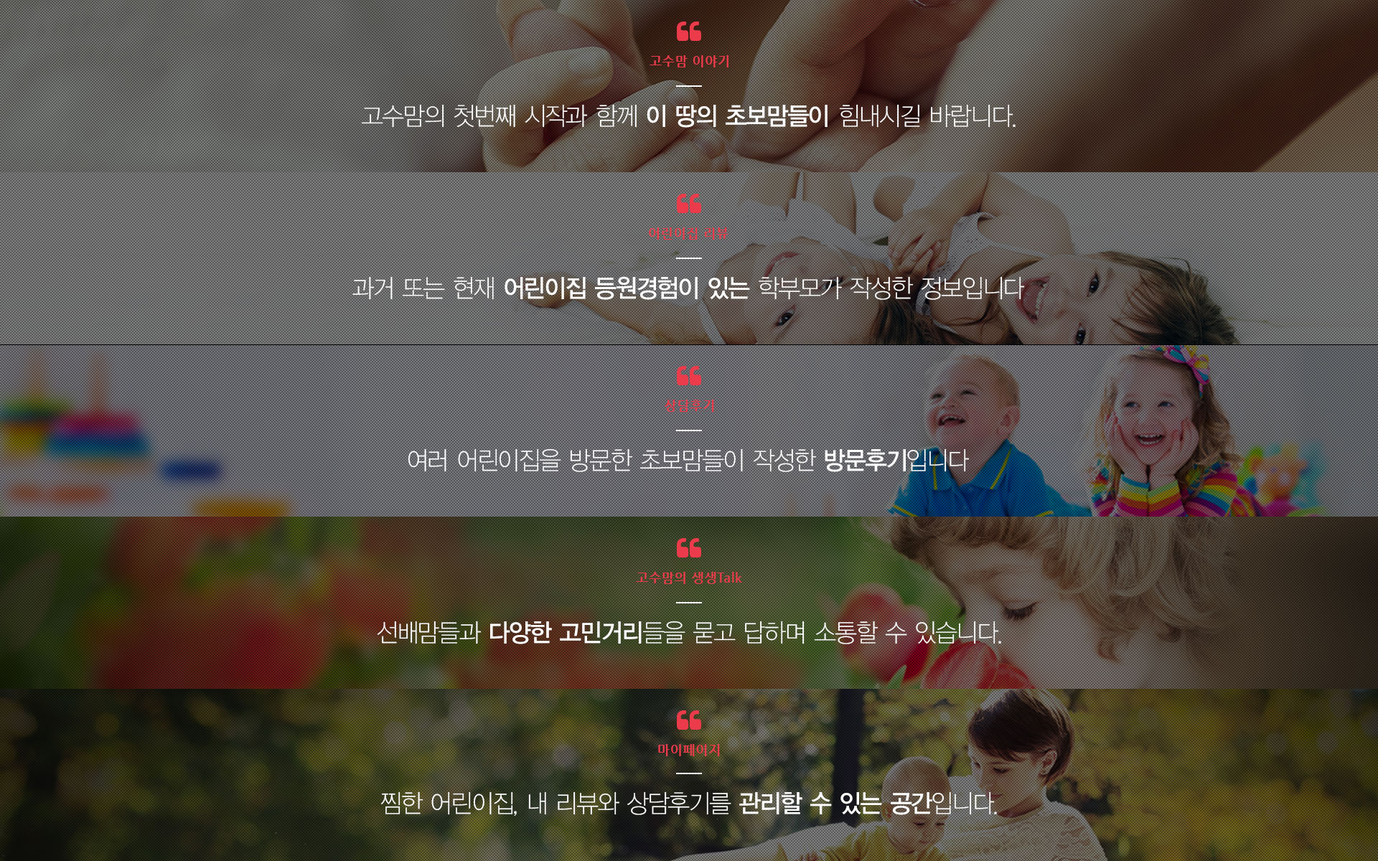
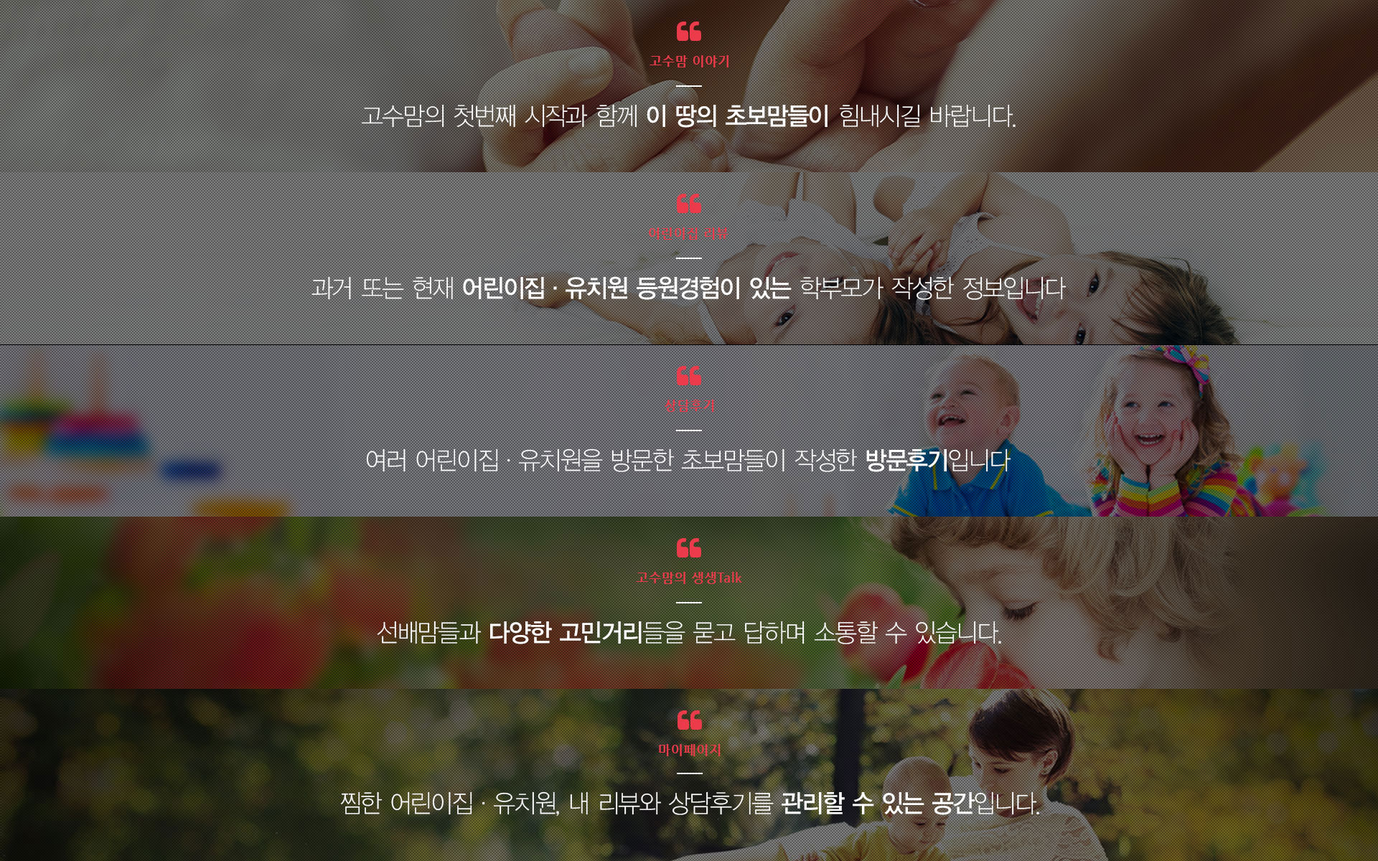
메인 중간슬라이더 이미지 변경

Changed region(s): [[0.2188, 0.8017, 1.0, 1.0], [0.2188, 0.3083, 0.75, 0.37], [0.25, 0.5242, 0.75, 0.555]]

diff --git a/momHTML2/public/css/style.css b/momHTML2/public/css/style.css
@@ -128,7 +128,7 @@ legend { position: absolute; top: -9999px; width: 0; height: 0; font-size: 0; li
 
 select { height: 40px; padding-top: 7px; padding-bottom: 7px; padding-left: 17px; padding-right: 8px; border: 1px solid #cbcbcb; line-height: 26px; }
 
-.line { background: url(/momHTML2/public/img/bg_line.gif) repeat-x 0 0; }
+.line { background: url(../img/bg_line.gif) repeat-x 0 0; }
 
 a.button, a.button_large, a.button_line, a.button_line_large, a.button_line_xlarge, span.button_line, a.button_line_small { display: inline-block; text-decoration: none; }
 
@@ -198,7 +198,7 @@ a.button, a.button_large, a.button_line, a.button_line_large, a.button_line_xlar
 .button_sns.report { background-color: #eb3b4b; }
 .button_sns.share { padding-left: 15px; background-color: #3B569D; }
 .button_sns.cacao_story { background-color: #f8ae1c; }
-.button_sns .icon { display: inline-block; margin-right: 8px; width: 17px; height: 17px; background: url(/momHTML2/public/img/bg_collect.png) no-repeat 0 0; vertical-align: middle; }
+.button_sns .icon { display: inline-block; margin-right: 8px; width: 17px; height: 17px; background: url(../img/bg_collect.png) no-repeat 0 0; vertical-align: middle; }
 .button_sns.feel .icon { margin-top: -3px; background-position: -100px -220px; }
 .button_sns.report .icon { margin-top: -3px; background-position: 0 -220px; }
 .button_sns.share .icon { background-position: -43px -220px; }
@@ -243,14 +243,14 @@ a.button, a.button_large, a.button_line, a.button_line_large, a.button_line_xlar
 .masonry .item .state > div { box-sizing: border-box; float: left; padding: 11px 0 10px; width: 33%; border-left: 1px solid #f6f6f6; }
 .masonry .item .state > div:first-child { border-left: 0; }
 .masonry .item .state .center { width: 34%; }
-.masonry .item .state .review, .masonry .item .state .note, .masonry .item .state .check { display: inline-block; margin-right: 4px; margin-bottom: 3px; width: 21px; height: 20px; background: url(/momHTML2/public/img/bg_collect.png) no-repeat; text-indent: -9999px; }
+.masonry .item .state .review, .masonry .item .state .note, .masonry .item .state .check { display: inline-block; margin-right: 4px; margin-bottom: 3px; width: 21px; height: 20px; background: url(../img/bg_collect.png) no-repeat; text-indent: -9999px; }
 .masonry .item .state .review { background-position: -320px -680px; }
 .masonry .item .state .note { background-position: -360px -680px; }
 .masonry .item .state .check { background-position: -280px -680px; }
 .masonry .item .photo { position: relative; height: 210px; }
 .masonry .item .photo > img { position: relative; width: 285px; height: 210px; border-top-left-radius: 10px; border-top-right-radius: 10px; }
 .ie8 .masonry .item .photo > img { border-radius: 10px; top: 0; }
-.masonry .item .photo .icon { position: absolute; margin-left: -33.5px; bottom: -33.5px; left: 50%; display: inline-block; width: 67px; height: 67px; background: url(/momHTML2/public/img/bg_collect.png) no-repeat -400px -300px; }
+.masonry .item .photo .icon { position: absolute; margin-left: -33.5px; bottom: -33.5px; left: 50%; display: inline-block; width: 67px; height: 67px; background: url(../img/bg_collect.png) no-repeat -400px -300px; }
 
 .masonry .item.more > a { border-top: 0; }
 .masonry .item.more .photo + .school_name { padding-top: 42px; }
@@ -276,7 +276,7 @@ a.button, a.button_large, a.button_line, a.button_line_large, a.button_line_xlar
 .masonry .item a:hover .review, .masonry .item a:focus .review, .masonry.other .item a:hover .review, .masonry.other .item a:focus .review { background-position: -320px -630px; }
 .masonry .item a:hover .note, .masonry .item a:focus .note, .masonry.other .item a:hover .note, .masonry.other .item a:focus .note { background-position: -360px -630px; }
 .masonry .item a:hover .check, .masonry .item a:focus .check, .masonry.other .item a:hover .check, .masonry.other .item a:focus .check { background-position: -280px -630px; }
-.masonry .item a:hover .list_info li, .masonry .item a:focus .list_info li, .masonry.other .item a:hover .list_info li, .masonry.other .item a:focus .list_info li { background: url(/momHTML2/public/img/bul_dot_white.png) no-repeat 0 5px; }
+.masonry .item a:hover .list_info li, .masonry .item a:focus .list_info li, .masonry.other .item a:hover .list_info li, .masonry.other .item a:focus .list_info li { background: url(../img/bul_dot_white.png) no-repeat 0 5px; }
 
 .top_bar { background-color: #EDEDED; color: #BABABA; font-size: 11px; font-size: 1.1rem; }
 .main .top_bar { background-color: #EB3B4B; color: #ededed; }
@@ -376,12 +376,12 @@ body.fixed .footer { position: static; }
 .breadcrumb li, .breadcrumb a { color: #828282; font-size: 12px; font-size: 1.2rem; letter-spacing: -1px; }
 .breadcrumb li { float: left; margin-right: 6px; }
 .breadcrumb li a { margin-right: 5px; }
-.breadcrumb li:first-child a { display: inline-block; margin-top: 2px; margin-right: -3px; width: 12px; height: 11px; text-indent: -9999px; background: url(/momHTML2/public/img/bg_collect.png) no-repeat -400px -200px; }
+.breadcrumb li:first-child a { display: inline-block; margin-top: 2px; margin-right: -3px; width: 12px; height: 11px; text-indent: -9999px; background: url(../img/bg_collect.png) no-repeat -400px -200px; }
 .breadcrumb li.current { margin-right: 0; font-weight: 600; }
 .breadcrumb.line { background-position: 0 100%; }
 
-.rating_star { display: inline-block; width: 75px; height: 13px; background: url(/momHTML2/public/img/bg_collect.png) no-repeat -650px 0; }
-.rating_star .inner { display: block; height: 100%; background: url(/momHTML2/public/img/bg_collect.png) no-repeat -650px -30px; }
+.rating_star { display: inline-block; width: 75px; height: 13px; background: url(../img/bg_collect.png) no-repeat -650px 0; }
+.rating_star .inner { display: block; height: 100%; background: url(../img/bg_collect.png) no-repeat -650px -30px; }
 
 .rating_star_wrap .score { color: #ADADAD; font-family: "Play", sans-serif; font-weight: 700; line-height: 1; }
 .rating_star_wrap .score.red { color: #EB3B4B; font-size: 14px; font-size: 1.4rem; font-weight: 600; font-family: "나눔고딕", "Nanum Gothic"; }
@@ -498,7 +498,7 @@ table .comment_num { margin-left: 5px; color: #eb3b4b; vertical-align: top; font
 .table_col td.left { text-align: left; padding-left: 25px; }
 .table_col td.no_result { padding: 40px; font-size: 15px; font-size: 1.5rem; color: #252525 !important; }
 
-.page_list .sub_visual, .page_write .sub_visual, .page_search .sub_visual, .page_member .sub_visual, .page_community .sub_visual, .page_story .sub_visual, .page_etc .sub_visual { overflow: hidden; box-sizing: border-box; padding-top: 64px; height: 200px; background: #000a16 url(/momHTML2/public/img/visual_sub.jpg) no-repeat 50% 0; font-size: 35px; font-size: 3.5rem; color: #fff; }
+.page_list .sub_visual, .page_write .sub_visual, .page_search .sub_visual, .page_member .sub_visual, .page_community .sub_visual, .page_story .sub_visual, .page_etc .sub_visual { overflow: hidden; box-sizing: border-box; padding-top: 64px; height: 200px; background: #000a16 url(../img/visual_sub.jpg) no-repeat 50% 0; font-size: 35px; font-size: 3.5rem; color: #fff; }
 .page_list .sub_visual h3, .page_write .sub_visual h3, .page_search .sub_visual h3, .page_member .sub_visual h3, .page_community .sub_visual h3, .page_story .sub_visual h3, .page_etc .sub_visual h3 { font-weight: 400; letter-spacing: -1px; }
 .page_list .sub_visual p, .page_write .sub_visual p, .page_search .sub_visual p, .page_member .sub_visual p, .page_community .sub_visual p, .page_story .sub_visual p, .page_etc .sub_visual p { margin-top: 6px; font-size: 16px; font-size: 1.6rem; }
 
@@ -517,7 +517,7 @@ table .comment_num { margin-left: 5px; color: #eb3b4b; vertical-align: top; font
 
 .using_wrap > section { border-top: 1px solid #eb3b4b; }
 
-.list_info li { margin-top: 11px; padding-left: 12px; list-style: none; text-align: left; font-size: 12px; font-size: 1.2rem; font-family: "돋움", "dotum"; color: #555; background: url(/momHTML2/public/img/bul_dot.png) no-repeat 0 5px; }
+.list_info li { margin-top: 11px; padding-left: 12px; list-style: none; text-align: left; font-size: 12px; font-size: 1.2rem; font-family: "돋움", "dotum"; color: #555; background: url(../img/bul_dot.png) no-repeat 0 5px; }
 .list_info li:first-child { margin-top: 0; }
 
 #loadmoreajaxloader { display: table; width: 100%; text-align: center; }
@@ -537,10 +537,10 @@ body.main { background-color: #F7F7F7; }
 
 .sorting_tab a { color: #222; font-weight: 700; }
 .sorting_tab a.active, .sorting_tab a:hover { border-bottom: 2px solid #EB3B4B; text-decoration: none; }
-.sorting_tab span { margin-left: 4px; padding-left: 12px; background: url(/momHTML2/public/img/bg_sorting_tab.gif) no-repeat 0 3px; }
+.sorting_tab span { margin-left: 4px; padding-left: 12px; background: url(../img/bg_sorting_tab.gif) no-repeat 0 3px; }
 .sorting_tab span:first-child { margin-left: 0; padding-left: 0; background: none; }
 
-.search_result_text { color: #252525; padding-left: 10px; background: url(/momHTML2/public/img/bul_arrow.png) no-repeat 0 5px; }
+.search_result_text { color: #252525; padding-left: 10px; background: url(../img/bul_arrow.png) no-repeat 0 5px; }
 .search_result_text strong { font-family: Tahoma; color: #EB3B4B; }
 
 .page_main { position: relative; }
@@ -550,13 +550,13 @@ body.main { background-color: #F7F7F7; }
 
 .main_visual_wrap { position: relative; }
 .main_visual_wrap .wrapper { display: block; height: 450px; }
-.main_visual_wrap .pager { z-index: 60; position: absolute; bottom: 11px; left: 50%; box-sizing: border-box; min-width: 198px; margin-left: -98.5px; padding-top: 19px; padding-left: 50px; padding-right: 50px; background: url(/momHTML2/public/img/bg_keyword.png) no-repeat 50% 0; text-align: center; }
+.main_visual_wrap .pager { z-index: 60; position: absolute; bottom: 11px; left: 50%; box-sizing: border-box; min-width: 198px; margin-left: -98.5px; padding-top: 19px; padding-left: 50px; padding-right: 50px; background: url(../img/bg_keyword.png) no-repeat 50% 0; text-align: center; }
 .main_visual_wrap .pager div { display: inline-block; }
-.main_visual_wrap .pager a { display: block; padding: 8px; width: 14px; height: 14px; background: url(/momHTML2/public/img/bg_collect.png) no-repeat -442px -232px; text-indent: -9999px; }
+.main_visual_wrap .pager a { display: block; padding: 8px; width: 14px; height: 14px; background: url(../img/bg_collect.png) no-repeat -442px -232px; text-indent: -9999px; }
 .main_visual_wrap .pager a:hover, .main_visual_wrap .pager a.active { background-position: -442px -192px; }
 
 .main_serching_bar { z-index: 60; position: absolute; top: 254px; left: 50%; margin-left: -272px; }
-.main_serching_bar fieldset { box-sizing: border-box; margin: 0 auto 0; padding-top: 20px; padding-left: 60px; padding-right: 30px; width: 544px; height: 80px; background: url(/momHTML2/public/img/bg_collect.png) no-repeat 0 0; }
+.main_serching_bar fieldset { box-sizing: border-box; margin: 0 auto 0; padding-top: 20px; padding-left: 60px; padding-right: 30px; width: 544px; height: 80px; background: url(../img/bg_collect.png) no-repeat 0 0; }
 .main_serching_bar input[type="text"] { position: relative; z-index: 2; width: 415px; font-size: 16px; font-size: 1.6rem; border: 0; outline: 0; line-height: 40px; background-color: transparent; }
 .main_serching_bar input[type="image"] { position: absolute; z-index: 1; right: 25px; padding: 5px; }
 .main_serching_bar .placeholder { position: absolute; top: 30px; left: 70px; font-size: 14px; font-size: 1.4rem; font-family: "나눔고딕", "Nanum Gothic"; }
@@ -572,7 +572,7 @@ body.main { background-color: #F7F7F7; }
 .dashboard li.last { margin-right: 0; }
 .dashboard .number { color: #aaa; display: block; height: 40px; margin-bottom: 5px; font-family: "돋움", "dotum"; font-size: 12px; font-size: 1.2rem; line-height: 1; }
 .dashboard .number em { font-family: "Open Sans", sans-serif; font-size: 40px; font-size: 4rem; color: #FF6777; font-style: normal; font-weight: 300; }
-.dashboard .icon { position: absolute; left: 0; top: 6px; display: inline-block; width: 50px; height: 46px; background: url(/momHTML2/public/img/bg_collect.png) no-repeat; }
+.dashboard .icon { position: absolute; left: 0; top: 6px; display: inline-block; width: 50px; height: 46px; background: url(../img/bg_collect.png) no-repeat; }
 .dashboard .icon.mom { background-position: 0 -300px; }
 .dashboard .icon.review { background-position: -100px -300px; }
 .dashboard .icon.view { background-position: -200px -300px; }
@@ -584,13 +584,13 @@ body.main { background-color: #F7F7F7; }
 
 .main_inside { background-color: #EDEDED; padding-bottom: 41px; }
 .main_inside .wrapper { overflow: hidden; }
-.main_inside .box { float: left; margin-right: 24px; width: 384px; height: 238px; background: url(/momHTML2/public/img/inside_bg.gif) no-repeat 0 -238px; }
+.main_inside .box { float: left; margin-right: 24px; width: 384px; height: 238px; background: url(../img/inside_bg.gif) no-repeat 0 -238px; }
 .main_inside .box.first { background-position: 0 0; }
 .main_inside .box.last { margin-right: 0; background-position: 0 -476px; }
 .main_inside .box:hover { background-position-x: -384px; }
 
 .main_review_wrap { overflow: hidden; position: relative; height: 240px; }
-.main_review_wrap li { height: 240px; background: url(/momHTML2/public/img/middle_banner_bg.jpg) no-repeat center 0; }
+.main_review_wrap li { height: 240px; background: url(../img/middle_banner_bg.jpg) no-repeat center 0; }
 .main_review_wrap li.story { background-position: center 0; }
 .main_review_wrap li.review { background-position: center -240px; }
 .main_review_wrap li.note { background-position: center -480px; }
@@ -619,7 +619,7 @@ body.main { background-color: #F7F7F7; }
 .pill { display: inline-block; padding: 0 8px; border-radius: 5px; background-color: #dcdcdc; font-size: 13px; font-size: 1.3rem; font-weight: 600; color: #fff; letter-spacing: -1px; line-height: 1.55; }
 .ie8 .pill { position: relative; }
 
-.icon_heart { display: inline-block; width: 18px; height: 15px; background: url(/momHTML2/public/img/bg_collect.png) no-repeat -150px -220px; vertical-align: middle; }
+.icon_heart { display: inline-block; width: 18px; height: 15px; background: url(../img/bg_collect.png) no-repeat -150px -220px; vertical-align: middle; }
 
 .emerald { color: #19bdc6; }
 
@@ -649,7 +649,7 @@ body.main { background-color: #F7F7F7; }
 .review_total .rating_star_wrap { margin-top: 6px; text-align: center; }
 .review_total .rating_star_wrap .score { display: inline-block; margin-top: 7px; }
 
-.review_items li .icon, .counseling_items li .icon { display: inline-block; width: 45px; height: 37px; background: url(/momHTML2/public/img/bg_collect.png) no-repeat; }
+.review_items li .icon, .counseling_items li .icon { display: inline-block; width: 45px; height: 37px; background: url(../img/bg_collect.png) no-repeat; }
 .review_items .director .icon, .counseling_items .director .icon { background-position: 7px -130px; }
 .review_items .teacher .icon, .counseling_items .teacher .icon { background-position: -51px -129px; }
 .review_items .clean .icon, .counseling_items .clean .icon { background-position: -116px -128px; }
@@ -665,7 +665,7 @@ body.main { background-color: #F7F7F7; }
 .review_total .review_items li:first-child { margin-left: 0; }
 .review_total .review_items .rating_star_wrap { margin: 11px 0 10px; }
 
-.review_write_link { overflow: hidden; position: relative; margin-top: 39px; padding: 40px 0 39px; border-bottom: 4px solid #343434; background: url(/momHTML2/public/img/bg_dash_line2.gif) repeat-x 0 0; }
+.review_write_link { overflow: hidden; position: relative; margin-top: 39px; padding: 40px 0 39px; border-bottom: 4px solid #343434; background: url(../img/bg_dash_line2.gif) repeat-x 0 0; }
 .review_write_link p { float: left; letter-spacing: -1px; font-size: 20px; font-size: 2rem; }
 .review_write_link > a { position: absolute; top: 14px; right: 0; }
 .review_write_link .sorting_tab { float: left; margin-left: 28px; margin-top: 3px; }
@@ -696,7 +696,7 @@ body.main { background-color: #F7F7F7; }
 .review_items .box_text, .counseling_items .box_text { box-sizing: border-box; padding: 19px 20px 19px; height: 124px; background-color: #f0f0f0; font-size: 12px; font-size: 1.2rem; font-family: "돋움", "dotum"; color: #787878; line-height: 1.5; }
 .ie8 .review_items .box_text, .ie8 .counseling_items .box_text { position: relative; border-radius: 17px; }
 
-.review_personal .blind { display: block; padding-top: 90px; width: 1075px; height: 440px; background: url(/momHTML2/public/img/review_hidden.jpg) no-repeat 0 0; font-size: 24px; font-size: 2.4rem; text-align: center; line-height: 1.25; letter-spacing: -2px; }
+.review_personal .blind { display: block; padding-top: 90px; width: 1075px; height: 440px; background: url(../img/review_hidden.jpg) no-repeat 0 0; font-size: 24px; font-size: 2.4rem; text-align: center; line-height: 1.25; letter-spacing: -2px; }
 .review_personal .blind a { display: inline-block; margin-top: 20px; }
 
 .nothing_wrap { padding: 50px; border-bottom: 1px solid #c8c8c8; font-size: 24px; font-size: 2.4rem; text-align: center; line-height: 1.25; letter-spacing: -2px; }
@@ -737,7 +737,7 @@ body.main { background-color: #F7F7F7; }
 .form_intro_box .dcheck a { color: #fefefe; text-decoration: underline; }
 .form_intro_box .placeholder { color: #B7B7B7; }
 
-.page_login { background: url(/momHTML2/public/img/bg_login.gif) repeat 0 0; }
+.page_login { background: url(../img/bg_login.gif) repeat 0 0; }
 .page_login .wrapper { padding-bottom: 200px; }
 .page_login .title { padding-top: 78px; padding-bottom: 28px; text-align: center; }
 .page_login .form_intro_box { margin: 0 auto; }
@@ -790,7 +790,7 @@ body.main { background-color: #F7F7F7; }
 .consider .color_thumb { background-color: #FDB45C; }
 .consider .value { color: #FDB45C; }
 
-.sorting_counseling { clear: both; padding-top: 30px; padding-bottom: 20px; width: 100%; min-height: 26px; border-bottom: 4px solid #343434; background: url(/momHTML2/public/img/bg_dash_line2.gif) repeat-x 0 0; }
+.sorting_counseling { clear: both; padding-top: 30px; padding-bottom: 20px; width: 100%; min-height: 26px; border-bottom: 4px solid #343434; background: url(../img/bg_dash_line2.gif) repeat-x 0 0; }
 .sorting_counseling p { font-size: 20px; font-size: 2rem; letter-spacing: -1px; }
 .sorting_counseling select { width: 173px; margin-top: 10px; }
 .sorting_counseling select + select { margin-left: 2px; }
@@ -806,7 +806,7 @@ body.main { background-color: #F7F7F7; }
 .counseling_personal .total .result { width: 241px; margin-right: 1px; }
 .counseling_personal .total .button_sns { margin-top: 5px; margin-left: 6px; }
 .counseling_personal .btn_wrap { margin-top: 30px; text-align: right; }
-.counseling_personal .blind { box-sizing: border-box; width: 100%; height: 228px; padding-top: 76px; background: url(/momHTML2/public/img/review_hidden2.png) no-repeat 0 0; font-size: 24px; font-size: 2.4rem; text-align: center; line-height: 1.25; letter-spacing: -2px; }
+.counseling_personal .blind { box-sizing: border-box; width: 100%; height: 228px; padding-top: 76px; background: url(../img/review_hidden2.png) no-repeat 0 0; font-size: 24px; font-size: 2.4rem; text-align: center; line-height: 1.25; letter-spacing: -2px; }
 .counseling_personal .blind a { display: inline-block; margin-top: 19px; }
 
 .counseling_items { overflow: hidden; padding-top: 30px; }
@@ -937,7 +937,7 @@ body.main { background-color: #F7F7F7; }
 .writing_form .placeholder_wrap .placeholder { z-index: 1; top: 30px; left: 25px; color: #d0d0d0; font-family: "나눔고딕", "Nanum Gothic"; font-size: 14px; font-size: 1.4rem; }
 .writing_form .byte { position: absolute; top: 32px; right: 24px; color: #c8c8c8; }
 .writing_form .change { color: #343434; }
-.writing_form .one_line { box-sizing: border-box; margin-top: 31px; padding: 0 20px; width: 820px; height: 180px; background: url(/momHTML2/public/img/bg_redbox.gif) no-repeat 0 0; }
+.writing_form .one_line { box-sizing: border-box; margin-top: 31px; padding: 0 20px; width: 820px; height: 180px; background: url(../img/bg_redbox.gif) no-repeat 0 0; }
 .writing_form .one_line .label { display: block; margin-top: 28px; margin-right: 0; margin-bottom: 19px; width: 100%; text-align: center; color: #fff; text-align: center; font-size: 24px; font-size: 2.4rem; }
 .writing_form .one_line .label .name { font-weight: 600; font-size: 24px; font-size: 2.4rem; }
 .writing_form .one_line .placeholder_wrap { width: 100%; }
@@ -951,7 +951,7 @@ body.main { background-color: #F7F7F7; }
 .writing_form .one_line label { margin-top: 0; }
 
 .page_write.counseling .noti { border-top-color: #19bdc6; }
-.page_write.counseling .writing_form .one_line { background-image: url(/momHTML2/public/img/bg_bluebox.gif); }
+.page_write.counseling .writing_form .one_line { background-image: url(../img/bg_bluebox.gif); }
 .page_write.counseling .writing_form li { padding-top: 31px; }
 .page_write.counseling .review_culture img { margin-top: 0; }
 .page_write.counseling li.satisfaction { padding-top: 13px; }
@@ -1044,7 +1044,7 @@ body.main { background-color: #F7F7F7; }
 .give_state.ing .icon { background-position: -530px -670px; }
 .give_state.reject .icon { background-position: -530px -700px; }
 
-.page_member table .switch .bar { display: inline-block; margin: 0 2px; width: 1px; height: 16px; background: url(/momHTML2/public/img/bg_button_bar.gif) repeat-y 0 0; }
+.page_member table .switch .bar { display: inline-block; margin: 0 2px; width: 1px; height: 16px; background: url(../img/bg_button_bar.gif) repeat-y 0 0; }
 .page_member table .reject { cursor: pointer; text-decoration: none; }
 .page_member table .color_positive, .page_member table .color_normal, .page_member table .color_negative { font-size: 15px; font-size: 1.5rem; font-weight: 600; }
 .page_member table a[href^=tel] { text-decoration: none; }
@@ -1057,7 +1057,7 @@ body.main { background-color: #F7F7F7; }
 .popup_wrap .title { font-size: 22px; font-size: 2.2rem; }
 
 .page_member.survey { padding-bottom: 0; }
-.page_member.survey .sub_contents { background: #F3F3EA url(/momHTML2/public/img/bg_sky.jpg) no-repeat 50% 0; }
+.page_member.survey .sub_contents { background: #F3F3EA url(../img/bg_sky.jpg) no-repeat 50% 0; }
 .page_member.survey .sub_contents .wrapper { box-sizing: border-box; text-align: center; padding: 100px 0 93px; }
 .page_member.survey .tab_wrap { margin-bottom: 0; }
 .page_member.survey .btn_wrap { margin-top: 59px; text-align: center; }
@@ -1086,11 +1086,11 @@ body.main { background-color: #F7F7F7; }
 .survey_list.result .score { position: absolute; top: 0; left: 0; width: 100%; text-align: center; font-weight: 700; font-family: "Play", sans-serif; font-size: 18px; font-size: 1.8rem; color: #eb3b4b; }
 .survey_list.result .score .ko { font-family: "나눔고딕", "Nanum Gothic"; font-weight: 600; }
 
-.result_graph { overflow: hidden; margin-bottom: 5px; padding: 4px 0; height: 160px; background: url(/momHTML2/public/img/bg_graph.png) no-repeat 0 0; }
+.result_graph { overflow: hidden; margin-bottom: 5px; padding: 4px 0; height: 160px; background: url(../img/bg_graph.png) no-repeat 0 0; }
 .result_graph > div { height: 152px; float: left; width: 12.5%; text-align: center; }
 
 .bar_graph_wrap { position: relative; display: inline-block; width: 20px; height: 152px; }
-.bar_graph_wrap .bar_inner { position: absolute; left: 0; bottom: 0; display: inline-block; background: #eb3b4b url(/momHTML2/public/img/bg_bar_graph.gif) repeat-y 0 0; width: 100%; height: 50%; vertical-align: bottom; }
+.bar_graph_wrap .bar_inner { position: absolute; left: 0; bottom: 0; display: inline-block; background: #eb3b4b url(../img/bg_bar_graph.gif) repeat-y 0 0; width: 100%; height: 50%; vertical-align: bottom; }
 
 .page_community { padding-bottom: 90px; }
 .page_community .title + .desc { float: left; padding-top: 3px; font-size: 16px; font-size: 1.6rem; letter-spacing: -1px; line-height: 1.3; }
@@ -1123,7 +1123,7 @@ body.main { background-color: #F7F7F7; }
 .view_content .view_head .count .number { display: block; color: #252525; }
 .view_content .view_title { display: inline-block; padding-left: 30px; vertical-align: middle; font-size: 16px; font-size: 1.6rem; font-weight: 600; color: #424242; }
 .view_content .writer { font-weight: 600; }
-.view_content .writer, .view_content .date { margin-right: 5px; padding-right: 10px; background: url(/momHTML2/public/img/bg_sorting_tab.gif) no-repeat 100% 4px; }
+.view_content .writer, .view_content .date { margin-right: 5px; padding-right: 10px; background: url(../img/bg_sorting_tab.gif) no-repeat 100% 4px; }
 .view_content .number { font-family: "Play", sans-serif; }
 .view_content .view_body { padding: 37px 30px 32px; border-bottom: 1px solid #e2e2e2; font-family: "나눔바른고딕", "Nanum Barun Gothic"; color: #373737; line-height: 1.75; }
 .view_content .view_body img { display: block; max-width: 100%; margin: 10px auto; }
@@ -1143,13 +1143,13 @@ body.main { background-color: #F7F7F7; }
 .comment_wrap .inner.write .comment { margin-top: 0; }
 .comment_wrap .inner.write .comment button { height: 70px; }
 .comment_wrap .inner.write .btn_wrap { margin-top: 0; top: 5px; }
-.comment_wrap ul .inner { padding-right: 30px; padding-left: 200px; border-bottom: 0; background: url(/momHTML2/public/img/reply.png) no-repeat 105px 16px; }
+.comment_wrap ul .inner { padding-right: 30px; padding-left: 200px; border-bottom: 0; background: url(../img/reply.png) no-repeat 105px 16px; }
 .comment_wrap ul .inner .photo { left: 130px; }
 .comment_wrap ul .inner .byteInfo { right: 138px; }
 .comment_wrap .photo { overflow: hidden; position: absolute; top: 11px; left: 30px; display: inline-block; width: 45px; height: 45px; border-radius: 50%; background: #e6e6e6 url(../img/bg_collect.png) no-repeat -264px -395px; }
 .comment_wrap .photo img { width: 45px; height: 45px; }
 .ie8 .comment_wrap .photo img { border-radius: 50%; position: relative; }
-.comment_wrap .name { margin-right: 5px; padding-right: 10px; background: url(/momHTML2/public/img/bg_button_bar.gif) no-repeat 100% 4px; font-family: "나눔고딕", "Nanum Gothic"; font-weight: 600; font-size: 16px; font-size: 1.6rem; color: #424242; }
+.comment_wrap .name { margin-right: 5px; padding-right: 10px; background: url(../img/bg_button_bar.gif) no-repeat 100% 4px; font-family: "나눔고딕", "Nanum Gothic"; font-weight: 600; font-size: 16px; font-size: 1.6rem; color: #424242; }
 .comment_wrap .date { margin-right: 0; padding-right: 0; background: none; font-family: "Play", sans-serif; color: #7B7B7B; }
 .comment_wrap .comment { overflow: hidden; position: relative; margin-top: 6px; font-size: 13px; font-size: 1.3rem; color: #7B7B7B; line-height: 1.4; word-break: break-all; }
 .comment_wrap .comment textarea { overflow-y: scroll; float: left; width: 88%; height: 90px; vertical-align: top; font-size: 13px; font-size: 1.3rem; }
@@ -1162,7 +1162,7 @@ body.main { background-color: #F7F7F7; }
 .comment_input_wrap button { position: absolute; top: 10px; right: 30px; width: 130px; height: 100px; background-color: #eb3b4b; color: #fff; font-weight: 600; }
 .comment_input_wrap .byteInfo { z-index: 2; position: absolute; bottom: 15px; right: 180px; font-size: 12px; font-size: 1.2rem; }
 
-.comment_count { margin-top: 50px; margin-bottom: 9px; padding-left: 10px; background: url(/momHTML2/public/img/bul_arrow.png) no-repeat 0 5px; }
+.comment_count { margin-top: 50px; margin-bottom: 9px; padding-left: 10px; background: url(../img/bul_arrow.png) no-repeat 0 5px; }
 .comment_count strong { font-family: Tahoma; font-weight: 600; color: #eb3b4b; }
 
 .view_content .paging { margin-top: 30px; }
@@ -1188,7 +1188,7 @@ body.main { background-color: #F7F7F7; }
 
 .page_etc { background-color: #f7f7f7; color: #333; }
 .page_etc .heading { display: block; margin-bottom: 8px; font-size: 20px; font-size: 2rem; font-weight: 600; }
-.page_etc .description { margin-bottom: 10px; padding-left: 12px; background: url(/momHTML2/public/img/bul_arrow.png) no-repeat 1px 7px; font-weight: 600; }
+.page_etc .description { margin-bottom: 10px; padding-left: 12px; background: url(../img/bul_arrow.png) no-repeat 1px 7px; font-weight: 600; }
 .page_etc .description.mb0 { margin-bottom: 0; }
 .page_etc .heading2 { margin-bottom: 7px; }
 .page_etc .bar { display: inline-block; margin-top: 9px; margin-right: 2px; padding-left: 0; width: 6px; border-top: 2px solid #333; vertical-align: top; }
@@ -1202,7 +1202,7 @@ body.main { background-color: #F7F7F7; }
 .page_etc li strong { display: block; margin-top: 10px; }
 
 .list_dot { margin-bottom: 10px; }
-.list_dot li { margin-top: 1px; padding-left: 11px; background: url(/momHTML2/public/img/bul_rect.png) no-repeat 0 10px; }
+.list_dot li { margin-top: 1px; padding-left: 11px; background: url(../img/bul_rect.png) no-repeat 0 10px; }
 .list_dot .num_round { display: inline; padding-left: 0; font-size: 15px; font-size: 1.5rem; }
 
 .page_etc .title { margin-top: 60px; font-size: 26px; font-size: 2.6rem; font-weight: 600; line-height: 1; color: #343434; }
@@ -1239,7 +1239,7 @@ body.main { background-color: #F7F7F7; }
 .tip_etiquette_body > div, .tip_choice_body > div { box-sizing: border-box; float: left; width: 50%; color: #333; letter-spacing: -1px; }
 .tip_etiquette_body div.reverse, .tip_choice_body div.reverse { color: #fff; }
 
-.tip_etiquette_body { height: 1932px; background: url(/momHTML2/public/img/tip_etiquette_bg.gif) no-repeat 0 0; }
+.tip_etiquette_body { height: 1932px; background: url(../img/tip_etiquette_bg.gif) no-repeat 0 0; }
 .tip_etiquette_body .num_round { display: inline-block; margin-bottom: 4px; width: 38px; height: 38px; text-indent: -9999px; }
 .tip_etiquette_body .num_round.one { background-position: -780px -770px; }
 .tip_etiquette_body .num_round.two { background-position: -830px -770px; }
@@ -1253,7 +1253,7 @@ body.main { background-color: #F7F7F7; }
 .tip_etiquette_body .section2 { padding-top: 60px; padding-left: 58px; }
 .tip_etiquette_body .section3, .tip_etiquette_body .section4, .tip_etiquette_body .section5, .tip_etiquette_body .section6 { padding-top: 71px; padding-left: 58px; }
 
-.tip_choice_body { height: 1814px; background: url(/momHTML2/public/img/tip_choice_bg.gif) no-repeat 0 0; }
+.tip_choice_body { height: 1814px; background: url(../img/tip_choice_bg.gif) no-repeat 0 0; }
 .tip_choice_body > div { box-sizing: border-box; float: left; width: 400px; padding-left: 30px; padding-right: 30px; padding-top: 182px; }
 .tip_choice_body .section1 { width: 100%; height: 441px; padding-top: 36px; padding-left: 515px; }
 .tip_choice_body .section1 p { font-size: 16px; font-size: 1.6rem; line-height: 1.5; }
@@ -1262,7 +1262,7 @@ body.main { background-color: #F7F7F7; }
 .tip_choice_body .section8, .tip_choice_body .section9, .tip_choice_body .section10 { height: 437px; }
 .tip_choice_body .section10 { padding-top: 139px; }
 
-.tip_sort .tip_visual, .tip_character .tip_visual, .tip_manage .tip_visual, .tip_teacher .tip_visual { overflow: hidden; box-sizing: border-box; padding-top: 123px; padding-left: 81px; height: 448px; background: url(/momHTML2/public/img/tip_visual.jpg) no-repeat 0 0; color: #333; }
+.tip_sort .tip_visual, .tip_character .tip_visual, .tip_manage .tip_visual, .tip_teacher .tip_visual { overflow: hidden; box-sizing: border-box; padding-top: 123px; padding-left: 81px; height: 448px; background: url(../img/tip_visual.jpg) no-repeat 0 0; color: #333; }
 .tip_sort .tip_visual h4, .tip_character .tip_visual h4, .tip_manage .tip_visual h4, .tip_teacher .tip_visual h4 { font-family: "나눔바른고딕", "Nanum Barun Gothic"; font-size: 60px; font-size: 6rem; font-weight: 400; }
 .tip_sort .tip_visual p, .tip_sort .tip_visual dl, .tip_character .tip_visual p, .tip_character .tip_visual dl, .tip_manage .tip_visual p, .tip_manage .tip_visual dl, .tip_teacher .tip_visual p, .tip_teacher .tip_visual dl { margin-top: 24px; font-size: 16px; font-size: 1.6rem; line-height: 1.65; letter-spacing: -1px; }
 
@@ -1274,7 +1274,7 @@ body.main { background-color: #F7F7F7; }
 .tip_teacher .tip_visual dl dt { display: inline-block; margin-bottom: 10px; padding-bottom: 1px; border-bottom: 1px solid #333; line-height: 1; }
 
 .masonry_tip_list { color: #333; letter-spacing: -1px; }
-.masonry_tip_list .item.last { box-sizing: border-box; border: 0; padding-top: 295px; padding-left: 76px; width: 590px; height: 350px; background: url(/momHTML2/public/img/tip_last_item.gif) no-repeat 0 0; }
+.masonry_tip_list .item.last { box-sizing: border-box; border: 0; padding-top: 295px; padding-left: 76px; width: 590px; height: 350px; background: url(../img/tip_last_item.gif) no-repeat 0 0; }
 .masonry_tip_list .item.last a { color: #304980; }
 .tip_teacher .masonry_tip_list .item.last { width: 100%; padding-top: 27px; padding-left: 745px; height: 46px; background-position: 655px -267px; }
 .masonry_tip_list .item { margin-top: 20px; border: 2px solid #dcdcdc; }
@@ -1284,9 +1284,9 @@ body.main { background-color: #F7F7F7; }
 .masonry_tip_list .shape_round { margin-top: 19px; margin-bottom: 7px; }
 .masonry_tip_list .blue { color: #304980; }
 .masonry_tip_list .gray { color: #969696; }
-.masonry_tip_list .list_bar li { margin: 7px 0; padding-left: 21px; background: url(/momHTML2/public/img/bul_collect.png) no-repeat 10px 9px; line-height: 1.5; }
+.masonry_tip_list .list_bar li { margin: 7px 0; padding-left: 21px; background: url(../img/bul_collect.png) no-repeat 10px 9px; line-height: 1.5; }
 .masonry_tip_list .list_bar li.list_table { padding-left: 0; background: none; }
-.masonry_tip_list .list_star, .masonry_tip_list .list_star_s { margin-top: 2px; padding-left: 23px; background: url(/momHTML2/public/img/bul_collect.png) no-repeat 10px -294px; line-height: 1.5; }
+.masonry_tip_list .list_star, .masonry_tip_list .list_star_s { margin-top: 2px; padding-left: 23px; background: url(../img/bul_collect.png) no-repeat 10px -294px; line-height: 1.5; }
 .masonry_tip_list .list_star_s { padding-left: 20px; text-indent: -10px; background: none; }
 .masonry_tip_list .list_star_s .ex { padding-left: 14px; }
 .masonry_tip_list .define { background-color: #f5f5f4; padding: 17px 13px 18px; }
@@ -1347,7 +1347,7 @@ body.main { background-color: #F7F7F7; }
 .sitemap_wrap section > ul { box-sizing: border-box; overflow: hidden; float: left; margin-top: 22px; margin-bottom: 22px; width: 965px; line-height: 1.55; }
 .sitemap_wrap section > ul ul { padding-left: 8px; }
 .sitemap_wrap section > ul > li { float: left; width: 170px; }
-.sitemap_wrap section strong { display: inline-block; margin-top: 0; padding-left: 8px; background: url(/momHTML2/public/img/bul_dot.png) no-repeat 0 9px; font-size: 15px; font-size: 1.5rem; font-weight: 600; }
+.sitemap_wrap section strong { display: inline-block; margin-top: 0; padding-left: 8px; background: url(../img/bul_dot.png) no-repeat 0 9px; font-size: 15px; font-size: 1.5rem; font-weight: 600; }
 .sitemap_wrap section li > a { font-size: 13px; font-size: 1.3rem; }
 .sitemap_wrap section li > a:hover { color: #eb3b4b; }
 

diff --git a/momHTML2/_index/index2.html b/momHTML2/_index/index2.html
@@ -40,7 +40,19 @@
 				<li class="ing"><span>2015-04-28</span><a href="/momHTML2/application/HTML/intro/default.html"><strong>default.html</strong>회원가입</a></li>
 				<li class="ing"><span>2015-04-29</span><a href="/momHTML2/application/HTML/intro/login.html"><strong>login.html</strong>로그인</a></li>
 				<li class="ing"><span>2015-05-15</span><a href="/momHTML2/application/HTML/intro/ing.html"><strong>ing.html</strong>로딩중</a></li>
-				<li class="update"><span>2015-06-15</span><a href="/momHTML2/application/HTML/main/default.html"><strong>default.html</strong>메인</a> <em><del>상단 헤더 디자인 수정함</del>, <del>중간 슬라이더 디자인</del>, <del>gif 로딩 이미지</del> <del>카드내용수정5/6</del>, <ins>페이스북 좋아요 팝업</ins>, <ins>오픈 팝업</ins></em></li>
+				<li class="update"><span>2015-06-16</span><a href="/momHTML2/application/HTML/main/default.html"><strong>default.html</strong>메인</a> 
+					<em>
+						<del>상단 헤더 디자인 수정함</del>, 
+						<del>중간 슬라이더 디자인</del>, 
+						<del>gif 로딩 이미지</del> 
+						<del>카드내용수정5/6</del>, 
+						<del>페이스북 좋아요 팝업</del>, 
+						<del>오픈 팝업</del>,
+						<ins>검색영역 탭 레이아웃</ins>,
+						<ins>텍스트 수정</ins>,
+						<ins>검색영역 select 추가</ins>
+					</em>
+				</li>
 				<li class="del"><span>2015-04-23</span><a href="/momHTML2/application/HTML/main/default2.html"><strong>default2.html</strong>메인</a></li>
 			</ul>
 			<!-- //main -->
